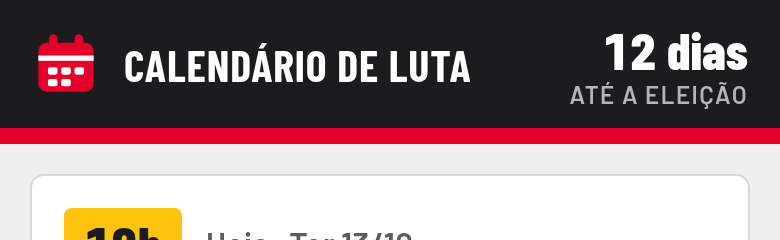
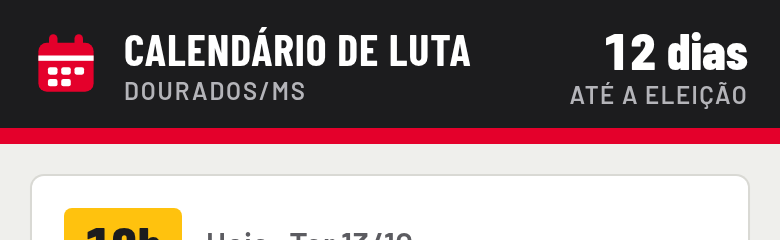
Show Dourados/MS across the site and the link preview
- New CITY setting in js/config.js ("Dourados/MS").
- Header: city line under the name; tab title and og:title/description
  include the city.
- WhatsApp message: the first line now carries the city
  ("🚩 *TIPO* · Dourados/MS").
- Link preview image: the city as a red destination plate under the
  name. Flyers are unchanged.
- README, PRODUCT.md and DESIGN.md document the city setting.

Changed region(s): [[0.1538, 0.1167, 0.6154, 0.4375]]

diff --git a/assets/og-image.html b/assets/og-image.html
@@ -20,21 +20,24 @@
     font-family: 'Barlow', sans-serif;
   }
 
-  .sign { display: flex; align-items: center; gap: 36px; height: 300px; padding: 0 80px; background: #1C1C1E; color: #fff; }
-  .mark { width: 170px; height: 170px; flex: none; color: #E4002B; }
-  .name { font: 800 116px/0.92 'Barlow Condensed', sans-serif; text-transform: uppercase; letter-spacing: 0.01em; }
+  .sign { display: flex; align-items: center; gap: 40px; height: 372px; padding: 0 80px; background: #1C1C1E; color: #fff; }
+  .mark { width: 200px; height: 200px; flex: none; color: #E4002B; }
+  .title { display: flex; flex-direction: column; align-items: flex-start; gap: 22px; }
+  .name { font: 800 108px/0.92 'Barlow Condensed', sans-serif; text-transform: uppercase; letter-spacing: 0.01em; }
+  /* The city as a station destination plate. */
+  .city { padding: 10px 22px 8px; border-radius: 8px; background: #E4002B; color: #fff; font: 800 74px/1 'Barlow Condensed', sans-serif; text-transform: uppercase; letter-spacing: 0.02em; }
   .strip { height: 18px; background: #E4002B; }
 
-  .body { flex: 1; display: flex; flex-direction: column; justify-content: center; gap: 30px; padding: 0 80px; }
-  .tagline { font: 600 38px/1.2 'Barlow', sans-serif; color: #3A3A3E; }
+  .body { flex: 1; display: flex; flex-direction: column; justify-content: center; gap: 22px; padding: 0 80px; }
+  .tagline { font: 600 34px/1.2 'Barlow', sans-serif; color: #3A3A3E; }
 
   /* The route to election day: past stretch, stations, terminal. */
-  .route { position: relative; height: 90px; }
-  .track { position: absolute; left: 24px; width: 600px; top: 45px; height: 16px; margin-top: -8px; background: #E4002B; }
-  .ring { position: absolute; top: 45px; width: 48px; height: 48px; margin: -24px 0 0 -24px; border-radius: 50%; border: 11px solid #E4002B; background: #fff; }
+  .route { position: relative; height: 80px; }
+  .track { position: absolute; left: 24px; width: 600px; top: 40px; height: 16px; margin-top: -8px; background: #E4002B; }
+  .ring { position: absolute; top: 40px; width: 48px; height: 48px; margin: -24px 0 0 -24px; border-radius: 50%; border: 11px solid #E4002B; background: #fff; }
   .ring.next { background: #FFC20E; border-color: #1C1C1E; }
   .ring.end { box-shadow: 0 0 0 7px #EFEFEC, 0 0 0 14px #1C1C1E; }
-  .terminal { position: absolute; left: 680px; top: 45px; transform: translateY(-50%); font: 800 52px/1 'Barlow Condensed', sans-serif; text-transform: uppercase; }
+  .terminal { position: absolute; left: 680px; top: 40px; transform: translateY(-50%); font: 800 52px/1 'Barlow Condensed', sans-serif; text-transform: uppercase; }
   .terminal span { color: #E4002B; }
 </style>
 </head>
@@ -50,11 +53,14 @@
         <rect x="7.5" y="23" width="4.5" height="3.5" rx="1"/><rect x="13.75" y="23" width="4.5" height="3.5" rx="1"/>
       </g>
     </svg>
-    <div class="name">Calendário<br>de Luta</div>
+    <div class="title">
+      <div class="name">Calendário<br>de Luta</div>
+      <div class="city">Dourados/MS</div>
+    </div>
   </div>
   <div class="strip"></div>
   <div class="body">
-    <p class="tagline">As atividades até o 2º turno, com mensagem e panfleto prontos para o WhatsApp.</p>
+    <p class="tagline">Atividades até o 2º turno, com mensagem e panfleto prontos.</p>
     <div class="route">
       <span class="track"></span>
       <span class="ring" style="left: 24px"></span>

diff --git a/index.html b/index.html
@@ -4,16 +4,16 @@
   <meta charset="utf-8">
   <meta name="viewport" content="width=device-width, initial-scale=1, viewport-fit=cover">
   <meta name="theme-color" content="#1C1C1E">
-  <title>Calendário de Luta</title>
-  <meta name="description" content="A linha de atividades até o segundo turno — mande a mensagem ou o panfleto de cada uma pelo WhatsApp.">
+  <title>Calendário de Luta · Dourados/MS</title>
+  <meta name="description" content="A linha de atividades em Dourados/MS até o segundo turno — mande a mensagem ou o panfleto de cada uma pelo WhatsApp.">
   <!-- Link preview (WhatsApp, Telegram, redes sociais). Crawlers don't run JS, so these stay static and use absolute URLs. -->
   <link rel="canonical" href="https://calendario.rsensato.com/">
   <meta property="og:type" content="website">
   <meta property="og:site_name" content="Calendário de Luta">
   <meta property="og:locale" content="pt_BR">
   <meta property="og:url" content="https://calendario.rsensato.com/">
-  <meta property="og:title" content="Calendário de Luta">
-  <meta property="og:description" content="As atividades até o 2º turno, com mensagem e panfleto prontos para o WhatsApp.">
+  <meta property="og:title" content="Calendário de Luta · Dourados/MS">
+  <meta property="og:description" content="As atividades em Dourados/MS até o 2º turno, com mensagem e panfleto prontos para o WhatsApp.">
   <meta property="og:image" content="https://calendario.rsensato.com/assets/og-image.png">
   <meta property="og:image:type" content="image/png">
   <meta property="og:image:width" content="1200">
@@ -33,7 +33,10 @@
     <div class="sign-inner">
       <a class="brand" href="./">
         <span class="brand-mark" id="brand-mark"></span>
-        <span class="brand-name" id="app-name">Calendário de Luta</span>
+        <span class="brand-text">
+          <span class="brand-name" id="app-name">Calendário de Luta</span>
+          <span class="brand-city" id="app-city">Dourados/MS</span>
+        </span>
       </a>
       <p class="countdown" id="countdown" hidden></p>
     </div>

diff --git a/js/whatsapp.js b/js/whatsapp.js
@@ -1,6 +1,7 @@
 // Builds a WhatsApp-ready message for an event.
 // WhatsApp formatting: *bold*, _italic_. Lines for empty fields are left out.
 
+import { CITY } from './config.js';
 import { formatShortDate, formatTimeRange } from './events.js';
 
 // Closing line added to every message — change it freely (or set to '' to remove).
@@ -9,7 +10,8 @@ export const CLOSING_LINE = '✊ Bora virar voto!';
 export function buildWhatsAppMessage(event) {
   const blocks = [];
 
-  if (event.type) blocks.push([`🚩 *${event.type.toUpperCase()}*`]);
+  // The type (when there is one) and the city head every message, so it travels with its context.
+  blocks.push([event.type ? `🚩 *${event.type.toUpperCase()}* · ${CITY}` : `🚩 ${CITY}`]);
 
   blocks.push([`*${event.title}*`]);
 

diff --git a/js/app.js b/js/app.js
@@ -1,4 +1,4 @@
-import { APP_NAME, CSV_URL, ELECTION_DATE, ELECTION_LABEL } from './config.js';
+import { APP_NAME, CITY, CSV_URL, ELECTION_DATE, ELECTION_LABEL } from './config.js';
 import { decodeCSV, parseCSV } from './csv.js';
 import { buildEvents, dateKey, daysBetween, formatLongDate, formatStationDate, formatTimeRange, parseDay, relativeDay } from './events.js';
 import { assignTypeColors, typeColor, typeTag } from './types.js';
@@ -471,8 +471,9 @@ function wireTabs(selector, onPick) {
 }
 
 $('app-name').textContent = APP_NAME;
+$('app-city').textContent = CITY;
 $('brand-mark').innerHTML = brandMark();
-document.title = APP_NAME;
+document.title = `${APP_NAME} · ${CITY}`;
 
 wireTabs('.view-tabs [role=tab]', (tab) => {
   state.view = tab.dataset.view;

diff --git a/css/style.css b/css/style.css
@@ -82,10 +82,17 @@ code { font-size: 0.9em; background: rgba(28, 28, 30, 0.07); padding: 1px 5px; b
 .brand { display: flex; align-items: center; gap: 12px; text-decoration: none; border-radius: 4px; }
 .brand-mark { display: grid; width: 34px; height: 34px; flex: none; color: var(--route); }
 .brand-mark svg { width: 100%; height: 100%; }
+.brand-text { display: flex; flex-direction: column; gap: 4px; }
 .brand-name {
   font: 700 22px/1 var(--font-sign);
   text-transform: uppercase;
   letter-spacing: 0.02em;
+}
+.brand-city {
+  font: 600 12px/1 var(--font-ui);
+  text-transform: uppercase;
+  letter-spacing: 0.08em;
+  color: var(--on-sign-muted);
 }
 
 .countdown {

diff --git a/js/config.js b/js/config.js
@@ -6,6 +6,9 @@ export const CSV_URL = 'https://docs.google.com/spreadsheets/d/e/2PACX-1vSgmpH83
 
 export const APP_NAME = 'Calendário de Luta';
 
+// Where every activity happens; shown under the name and in the WhatsApp message.
+export const CITY = 'Dourados/MS';
+
 // The end of the line: every activity runs toward this day.
 export const ELECTION_DATE = '2026-10-25';
 export const ELECTION_LABEL = 'Eleição · 2º turno';

diff --git a/DESIGN.md b/DESIGN.md
@@ -215,7 +215,7 @@ components:
 
 The campaign is drawn as a São Paulo-style metro line. Graphite sign bars carry the name and the countdown; a red route strip runs under them; every day with activity is a station on a vertical red line that ends at a double-ringed terminal on election day. The interface reads like wayfinding signage, not like a calendar app: condensed uppercase station names, tabular condensed times, round line bullets, and two line weights only (the 8px route and 1px seams).
 
-Density is phone-first and generous. Tap targets are 44 to 48px, the ground is a pale platform grey so white panels separate without heavy shadows, and contrast holds up outdoors. On desktop the same world becomes a production bench: line on the left, a persistent share bench on the right. The ten 1080 × 1350 flyer layouts are the same signage at poster scale, each a different object from the metro (a station sign, a departures board, a ticket, a tile wall, a network map), so a shared image and the site are recognisably one system. The brand is a red calendar mark beside the name, in the sign bar, the favicon and every flyer.
+Density is phone-first and generous. Tap targets are 44 to 48px, the ground is a pale platform grey so white panels separate without heavy shadows, and contrast holds up outdoors. On desktop the same world becomes a production bench: line on the left, a persistent share bench on the right. The ten 1080 × 1350 flyer layouts are the same signage at poster scale, each a different object from the metro (a station sign, a departures board, a ticket, a tile wall, a network map), so a shared image and the site are recognisably one system. The brand is a red calendar mark beside the name, in the sign bar, the favicon and every flyer. In the sign bar the name carries a second line with the city ("Dourados/MS", `CITY` in `js/config.js`): Barlow 600, 12px, uppercase, 0.08em tracking, `on-sign-muted`. The city also heads every WhatsApp message and the link preview; flyers carry the name only.
 
 The world explicitly refuses the default calendar app (white cards on white, grid first) and the protest-poster costume (cream paper with condensed ink boxes).
 

diff --git a/PRODUCT.md b/PRODUCT.md
@@ -24,6 +24,7 @@ One place that shows the calendar of the movement's activities (panfletagens, fo
 
 - Data comes from a CSV: currently `data/agenda.csv`; later a public Google Sheet published as CSV (`CSV_URL` in `js/config.js`). Editing the sheet updates the site.
 - Used during an intense, short campaign window (days to the election), often outdoors, on mid-range Android phones, frequently shared via WhatsApp.
+- All activities happen in Dourados/MS (`CITY` in `js/config.js`); the city is shown in the header, the WhatsApp message and the link preview (flyers stay as they are; most places already name the city).
 - UI language: Portuguese (pt-BR).
 
 ## Capabilities and Constraints

diff --git a/README.md b/README.md
@@ -66,6 +66,7 @@ Tudo que costuma mudar fica em `js/config.js`:
 
 - `CSV_URL`: de onde vem a agenda (arquivo local ou planilha publicada).
 - `APP_NAME`: nome que aparece no topo do site e nos panfletos.
+- `CITY`: a cidade das atividades (hoje `Dourados/MS`), mostrada embaixo do nome e no começo de cada mensagem de WhatsApp. Se mudar, troque também nas tags do `<head>` do `index.html` e em `assets/og-image.html`.
 - `ELECTION_DATE` / `ELECTION_LABEL`: o ponto final da linha e a contagem regressiva.
 
 Outros textos:
